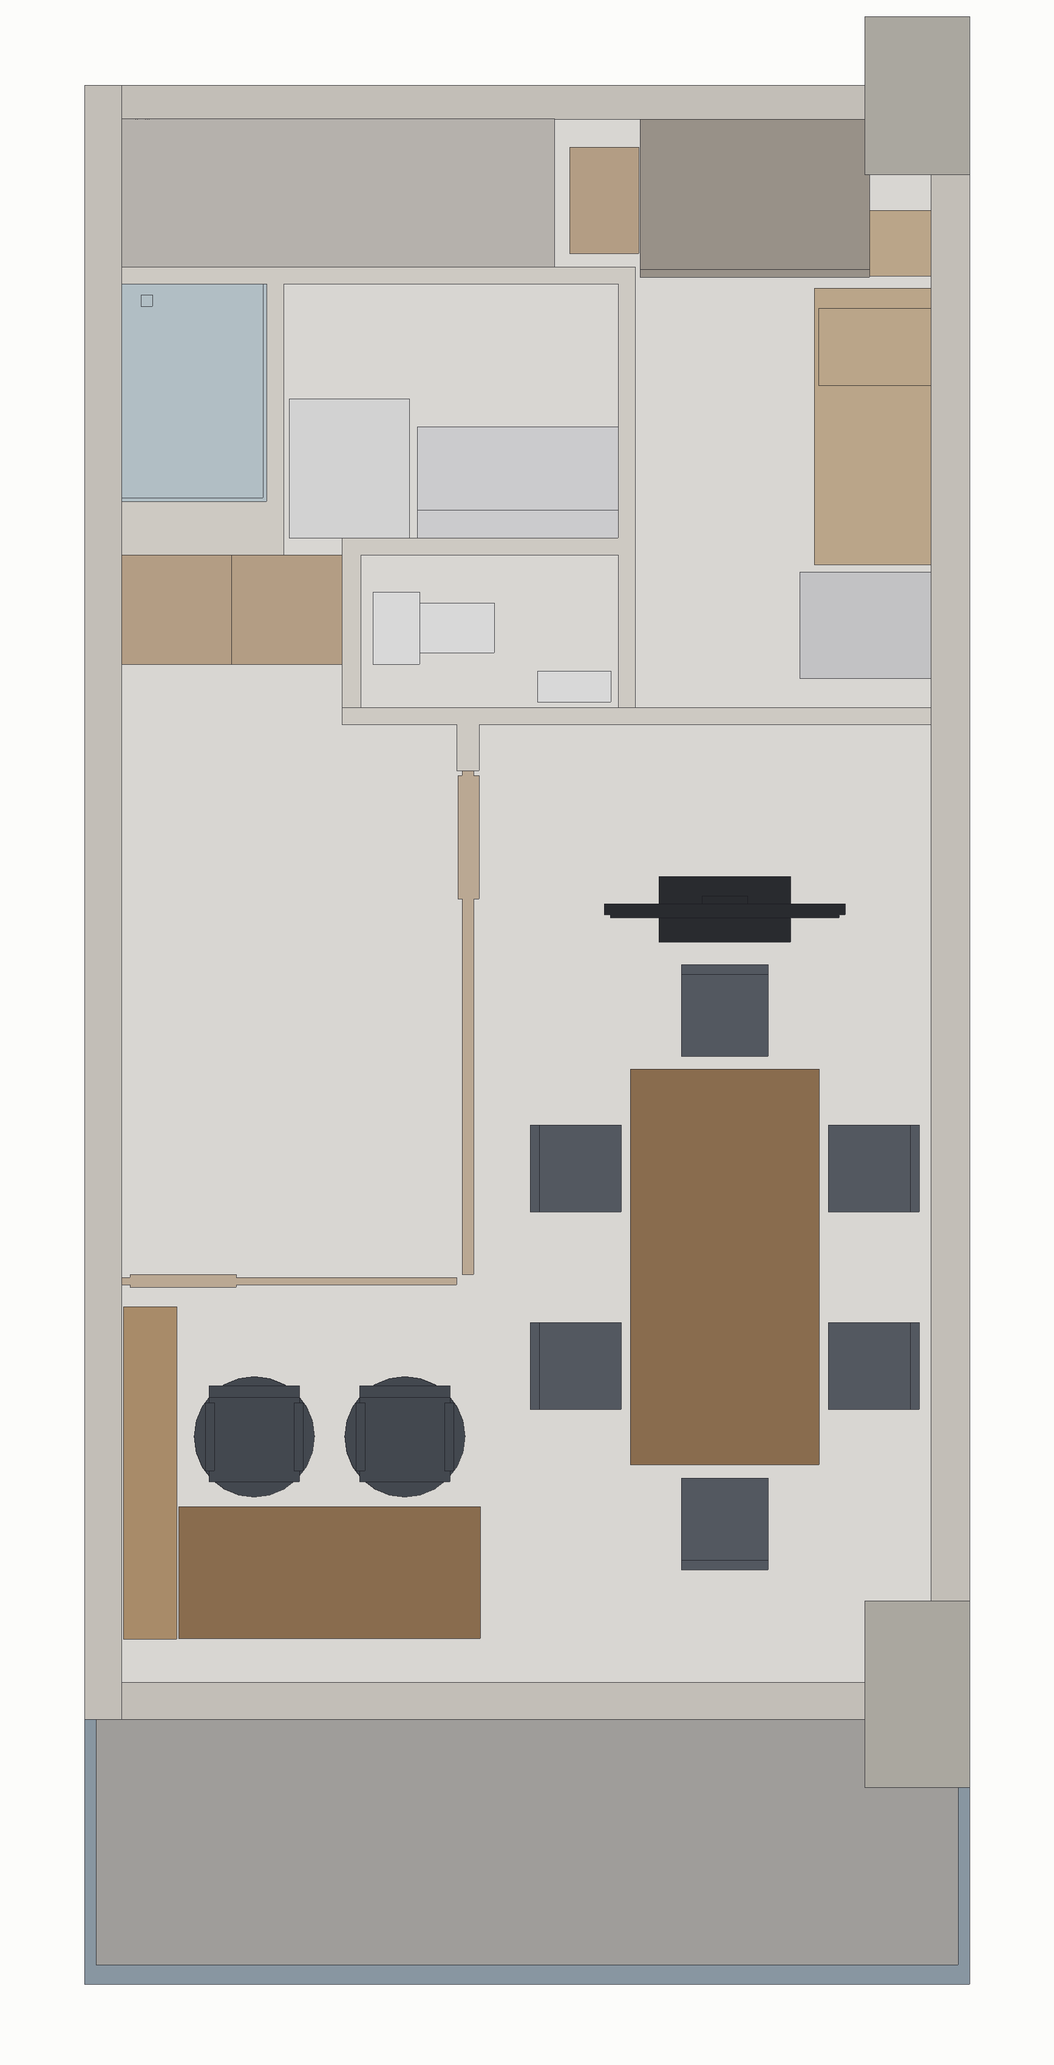
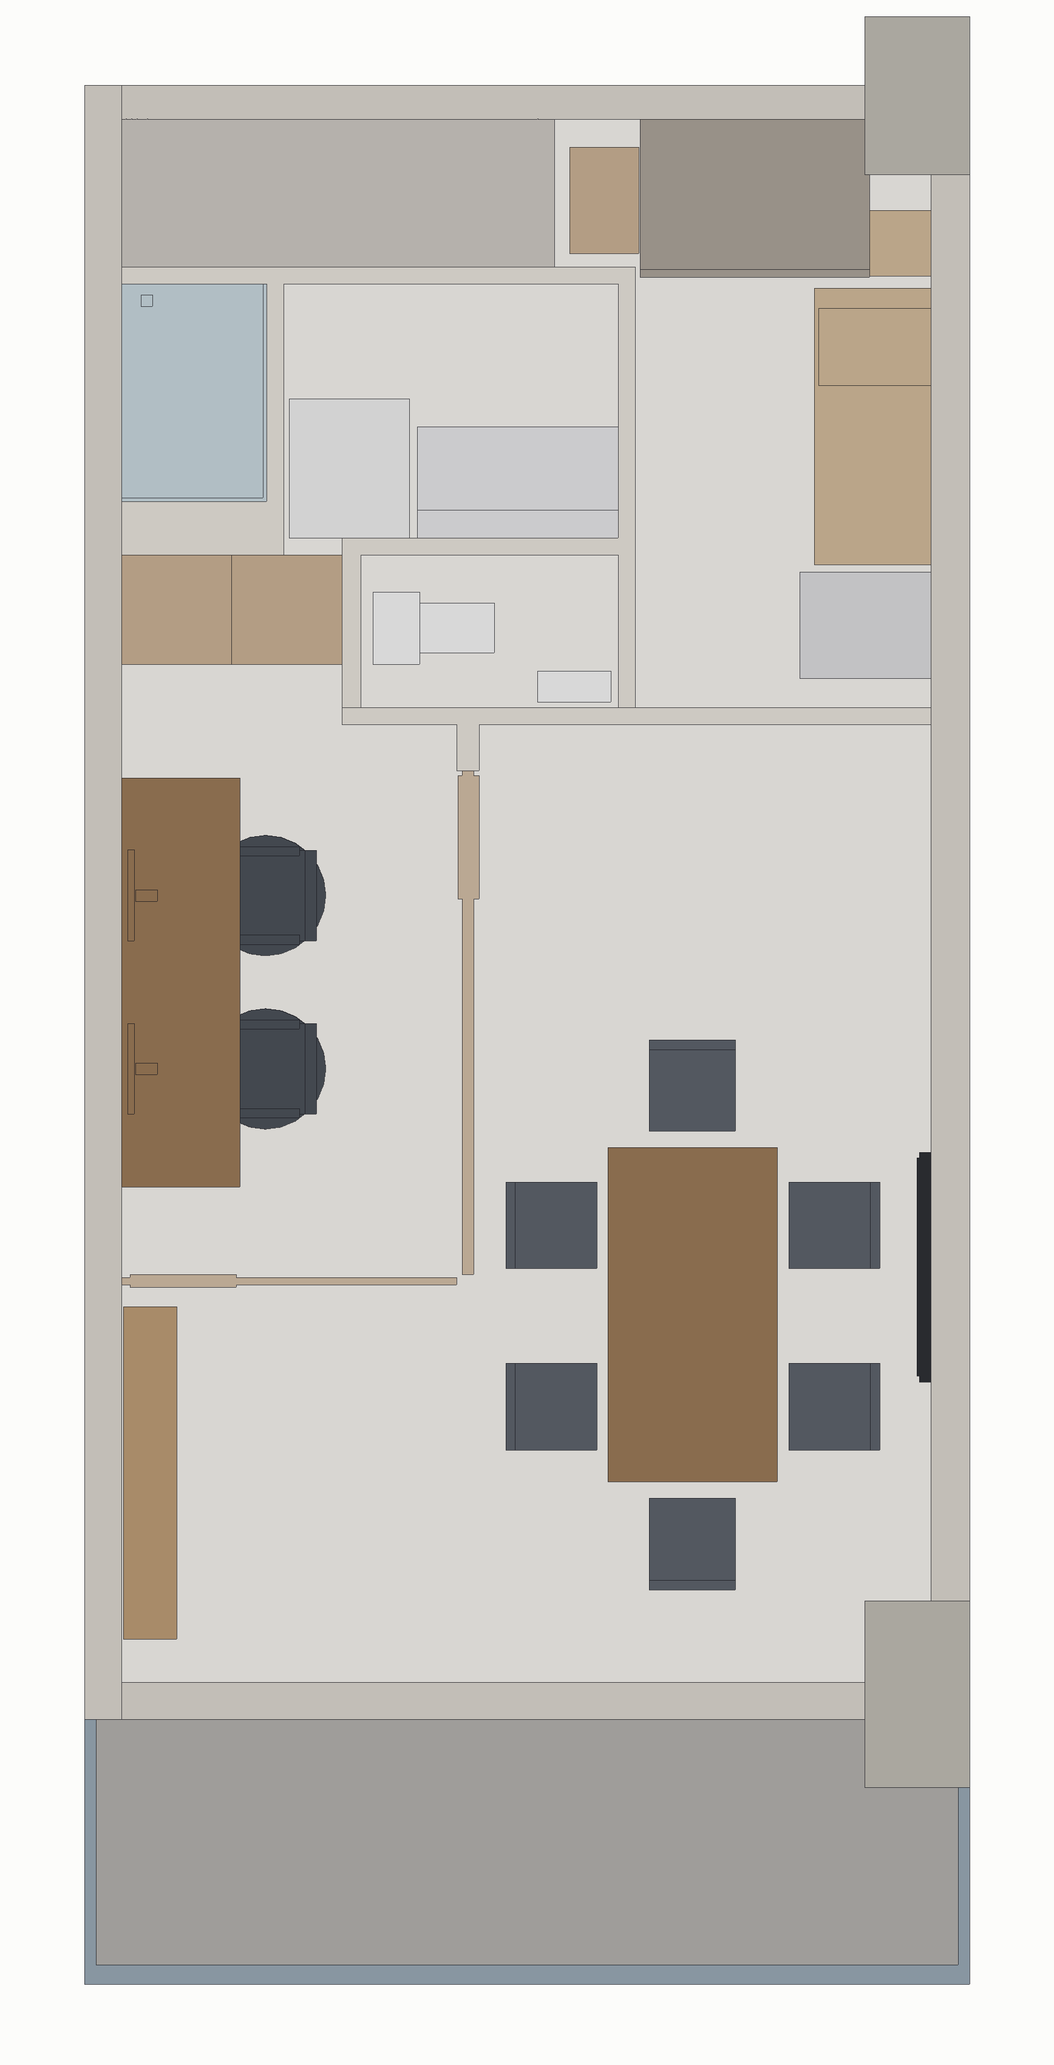
Adopt the specified furniture layout
Replaces the provisional furniture positions with the layout from the
attached FURNITURE CONTACT & CLEARANCE REVIEW drawing. Its envelope
(px x321-1089, y318-1735) scales to 8672 mm against the master's 8675,
so unlike the earlier reference plan its dimensions transfer directly
at 6.1198 mm/px.

The drawing's wall thickness does differ from the master (west inner
face X135 and east inner X4565, against 195 and 4495), so elements
that touch a wall are re-anchored to the master's real faces rather
than copied verbatim: the desk to X=195 as its "flush to wall" note
requires, the display 60 mm off X=4495, storage against X=4495.
Free-standing items keep the drawn values.

Layout: the 2-person desk runs north-south flush to the west wall in
the bedroom zone with two on-desk monitors and both task chairs facing
west; the meeting table sits at X2780-3680 / Y1260-3035 with its six
chairs as drawn; the 55" monitor becomes east-wall mounted facing west
over Y1790-3010, which matches 1218 mm for a 55" panel and frees the
circulation the old floor stand blocked.

Item 4 (storage) is captured but not generated. It is flagged red in
the drawing and conflicts with the standing instruction never to add
storage, so INCLUDE_STORAGE_04 defaults to False pending a decision.

Adds overlay D against the drawing (every item lands on its drawn
position) and a clearance report, which shows the east and west chair
gaps tightening to 211 mm and 141 mm once real wall thickness and
[…]

Changed region(s): [[0.4666, 0.4055, 0.9021, 0.7799], [0.1555, 0.6551, 0.4666, 0.8111], [0.0933, 0.3743, 0.3111, 0.5927]]

diff --git a/soho1415/geometry_master.py b/soho1415/geometry_master.py
@@ -136,26 +136,56 @@ OPEN_SHOWER_DOOR   = (6860.0, 7560.0)   # シャワードア (X_WALL_SHOWER_E)
 OPEN_WINDOW        = (1740.0, 4080.0)   # 掃き出し窓 (南外壁)     px x 778-960
 
 # =====================================================================
-#  2.  FURNITURE  XY  LOCK   ( ※暫定値 -- 上記ヘッダ参照 )
+#  2.  FURNITURE  XY  LOCK   ( 添付「FURNITURE CONTACT & CLEARANCE REVIEW」より )
+# =====================================================================
+#  出典: 指定家具配置図 (1440x2160 px)。外形 px x321-1089 / y318-1735 を
+#        マスター外形に一致させて換算した (6.1198 mm/px)。
+#        この図の外形比は 768:1417 -> 8672 mm でマスター 8675 mm と一致する。
+#
+#  ただし この図の壁厚はマスターと異なる (西壁内面 X135 / 東壁内面 X4565 に対し
+#  マスターは 195 / 4495)。したがって **壁に接する要素は図の数値をそのまま使わず、
+#  マスターの実際の壁面にアンカーし直している**。
+#     - DESK_2P   : 図で「flush to wall」と指示 -> 西壁内面 X=195 に密着
+#     - DISPLAY_55: 東壁掛け -> 東壁内面 X=4495 から室内側へ 60 mm
+#     - STORAGE_04: 東壁付け -> 東壁内面 X=4495 に密着
+#  壁から離れている要素 (ミーティングテーブル・チェア) は図の実測値をそのまま採用。
+#
+#  実測値 (図 -> mm)
+#     DESK        X 214-844 (630)  Y 2827-4994 (2167)   西壁に密着指示
+#     モニター    幅 483 / 厚 37、各ステーションの机西端寄り
+#     執務チェア  X 753-1188        Y 4137-4608 / 3211-3694   西向き
+#     TABLE       X 2778-3678 (900) Y 1261-3035 (1775)
+#     会議チェア  西 (2491,2623)(2491,1659) / 東 (3969,2623)(3969,1659)
+#                 北 (3228,3351) / 南 (3228,943)
+#     DISPLAY     Y 1793-2993 (1199 = 55 型 1218 に一致) 東壁掛け・西向き
+#     STORAGE(4)  X 4333-4578 (245) Y 875-1793 (918)   ※図で赤フラグ
 # =====================================================================
 FURNITURE_XY_LOCK = {
-    # 2 人用ワークデスク : 1600 x 700 / バルコニーを向いて着座
-    "DESK_2P":        dict(x0=500.0,  x1=2100.0, y0=430.0,  y1=1130.0),
-    "TASK_CHAIR_1":   dict(cx=900.0,  cy=1500.0, facing="S"),
-    "TASK_CHAIR_2":   dict(cx=1700.0, cy=1500.0, facing="S"),
+    # (1) 2 人用ワークデスク : 西壁に密着 / Master Bedroom 側に南北配置
+    "DESK_2P":        dict(x0=195.0,  x1=825.0,  y0=2825.0, y1=4995.0),
+    "DESK_MON_N":     dict(cy=4373.0, w=483.0),          # 机上モニター (北席)
+    "DESK_MON_S":     dict(cy=3453.0, w=483.0),          # 机上モニター (南席)
+    "TASK_CHAIR_1":   dict(cx=960.0,  cy=4373.0, facing="W"),
+    "TASK_CHAIR_2":   dict(cx=960.0,  cy=3453.0, facing="W"),
 
-    # 6 人用ミーティングテーブル : 1000 x 2100
-    "MEETING_TABLE":  dict(x0=2900.0, x1=3900.0, y0=1350.0, y1=3450.0),
-    "MTG_CHAIR_W1":   dict(cx=2620.0, cy=1875.0, facing="E"),
-    "MTG_CHAIR_W2":   dict(cx=2620.0, cy=2925.0, facing="E"),
-    "MTG_CHAIR_E1":   dict(cx=4180.0, cy=1875.0, facing="W"),
-    "MTG_CHAIR_E2":   dict(cx=4180.0, cy=2925.0, facing="W"),
-    "MTG_CHAIR_S":    dict(cx=3400.0, cy=1050.0, facing="N"),
-    "MTG_CHAIR_N":    dict(cx=3400.0, cy=3750.0, facing="S"),
+    # (2) 6 人用ミーティングテーブル : 900 x 1775
+    "MEETING_TABLE":  dict(x0=2780.0, x1=3680.0, y0=1260.0, y1=3035.0),
+    "MTG_CHAIR_W1":   dict(cx=2491.0, cy=2623.0, facing="E"),
+    "MTG_CHAIR_W2":   dict(cx=2491.0, cy=1659.0, facing="E"),
+    "MTG_CHAIR_E1":   dict(cx=3969.0, cy=2623.0, facing="W"),
+    "MTG_CHAIR_E2":   dict(cx=3969.0, cy=1659.0, facing="W"),
+    "MTG_CHAIR_N":    dict(cx=3228.0, cy=3351.0, facing="S"),
+    "MTG_CHAIR_S":    dict(cx=3228.0, cy=943.0,  facing="N"),
 
-    # 55 インチモニター : 有効画面 1218 x 685 / 南(テーブル側)を向く
-    "MONITOR_55":     dict(cx=3400.0, cy=4300.0, facing="S"),
+    # (3) 55 インチモニター : 東壁掛け・西向き (有効画面 1218 x 685)
+    "MONITOR_55":     dict(y0=1790.0, y1=3010.0, wall_x=4495.0, facing="W"),
 }
+
+# (4) STORAGE : 添付図に赤 (Storage overlap) でフラグされた収納。
+#     「追加収納を絶対に追加しないでください」という既存指示と抵触するため、
+#     座標だけ保持し、既定では生成しない。True にすれば即座に反映される。
+INCLUDE_STORAGE_04 = False
+STORAGE_04 = dict(x0=4250.0, x1=4495.0, y0=875.0, y1=1793.0, z1=800.0)
 
 # ---------------------------------------------------------------------
 # 可動収納壁 (ベッドルーム間仕切) -- L 字 / 常時開放
@@ -481,12 +511,18 @@ def parts():
     # =================================================================
     F = FURNITURE_XY_LOCK
 
+    # (1) 2 人用ワークデスク (机上モニター 2 台を含む)
     d = F["DESK_2P"]
-    desk = [_b(d["x0"], d["x1"], d["y0"], d["y1"], 700, 740)]
-    for sx in (d["x0"] + 60, d["x1"] - 120):
+    desk = [_b(d["x0"], d["x1"], d["y0"], d["y1"], 700, 740)]          # 天板
+    for sx in (d["x0"] + 40, d["x1"] - 100):
         for sy in (d["y0"] + 40, d["y1"] - 100):
-            desk.append(_b(sx, sx + 60, sy, sy + 60, FL, 700))
-    desk.append(_b(d["x0"] + 40, d["x1"] - 40, d["y0"] + 40, d["y0"] + 70, 420, 690))  # 幕板
+            desk.append(_b(sx, sx + 60, sy, sy + 60, FL, 700))          # 脚
+    for k in ("DESK_MON_N", "DESK_MON_S"):
+        m = F[k]
+        cy, w = m["cy"], m["w"]
+        desk.append(_b(d["x0"] + 145, d["x1"] - 330, cy - 178, cy + 178, 740, 780))   # スタンド台
+        desk.append(_b(d["x0"] + 190, d["x1"] - 555, cy - 30, cy + 30, 780, 1010))    # 支柱
+        desk.append(_b(d["x0"] + 31, d["x0"] + 68, cy - w / 2, cy + w / 2, 1010, 1310))  # 画面
     add("DESK_2P", "2人用ワークデスク", desk)
 
     for k in ("TASK_CHAIR_1", "TASK_CHAIR_2"):
@@ -494,6 +530,7 @@ def parts():
         bx, cy = _task_chair(c["cx"], c["cy"], c["facing"])
         add(k, "執務チェア2脚", bx, cy)
 
+    # (2) 6 人用ミーティングテーブル
     m = F["MEETING_TABLE"]
     tbl = [_b(m["x0"], m["x1"], m["y0"], m["y1"], 700, 740)]
     for sx in (m["x0"] + 80, m["x1"] - 160):
@@ -502,18 +539,24 @@ def parts():
     add("MEETING_TABLE", "6人用ミーティングテーブル", tbl)
 
     for k in ("MTG_CHAIR_W1", "MTG_CHAIR_W2", "MTG_CHAIR_E1",
-              "MTG_CHAIR_E2", "MTG_CHAIR_S", "MTG_CHAIR_N"):
+              "MTG_CHAIR_E2", "MTG_CHAIR_N", "MTG_CHAIR_S"):
         c = F[k]
         bx, cy = _meeting_chair(c["cx"], c["cy"], c["facing"])
         add(k, "会議チェア6脚", bx, cy)
 
+    # (3) 55 インチモニター : 東壁掛け
     mo = F["MONITOR_55"]
-    cx, cy = mo["cx"], mo["cy"]
+    wx, y0, y1 = mo["wall_x"], mo["y0"], mo["y1"]
     add("MONITOR_55", "55インチモニター",
-        [_b(cx - 640, cx + 640, cy - 30, cy + 30, 700, 1445),   # 筐体 (55" = 1218x685)
-         _b(cx - 609, cx + 609, cy - 45, cy - 30, 730, 1415),   # 画面
-         _b(cx - 120, cx + 120, cy - 10, cy + 70, 40, 700),     # 支柱
-         _b(cx - 350, cx + 350, cy - 175, cy + 175, FL, 40)])   # ベース
+        [_b(wx - 60, wx, y0, y1, 750, 1435),                    # 筐体
+         _b(wx - 75, wx - 60, y0 + 31, y1 - 31, 780, 1404),     # 画面 (1218 x 685)
+         _b(wx - 40, wx, (y0 + y1) / 2 - 200, (y0 + y1) / 2 + 200, 1000, 1180)])  # 壁掛け金具
+
+    # (4) STORAGE  -- 既定では生成しない (上記 INCLUDE_STORAGE_04 参照)
+    if INCLUDE_STORAGE_04:
+        st = STORAGE_04
+        add("STORAGE_04", "追加収納(要確認)",
+            [_b(st["x0"], st["x1"], st["y0"], st["y1"], FL, st["z1"])])
 
     return P
 

diff --git a/soho1415/render_validation.py b/soho1415/render_validation.py
@@ -23,6 +23,13 @@ HERE = os.path.dirname(os.path.abspath(__file__))
 OUT = os.path.join(HERE, "out")
 
 # 承認済み平面図 (KEN 物件資料 p.3) と、その中の座標原点
+# 指定家具配置図 (FURNITURE CONTACT & CLEARANCE REVIEW)
+FURNITURE_PLAN = os.environ.get(
+    "FURNITURE_PLAN",
+    "/root/.claude/uploads/9b86f205-44ec-5e28-b7cf-48262834b0fc/82ab60a7-image.png")
+FURN_X0, FURN_X1 = 321, 1089      # 外壁外面 西 / 東 (px)
+FURN_Y0, FURN_Y1 = 1735, 318      # 外壁外面 南 / 北 (px)
+
 APPROVED_PLAN = os.environ.get(
     "APPROVED_PLAN",
     "/root/.claude/uploads/9b86f205-44ec-5e28-b7cf-48262834b0fc/3241b6ab-image.png")
@@ -133,6 +140,52 @@ def overlay(bdata):
     return p
 
 
+def overlay_furniture():
+    """指定家具配置図に、モデルの家具だけを重ねて位置一致を確認する."""
+    if not os.path.exists(FURNITURE_PLAN):
+        print("!! furniture plan not found, skipping")
+        return None
+    src = Image.open(FURNITURE_PLAN).convert("L")
+    w, h = src.size
+    k = (FURN_X1 - FURN_X0) / (GM.X_OUT_E - GM.X_OUT_W)      # px per mm
+
+    furn = ("DESK_2P", "TASK_CHAIR_1", "TASK_CHAIR_2", "MEETING_TABLE",
+            "MTG_CHAIR_W1", "MTG_CHAIR_W2", "MTG_CHAIR_E1", "MTG_CHAIR_E2",
+            "MTG_CHAIR_N", "MTG_CHAIR_S", "MONITOR_55", "STORAGE_04")
+    scene, _ = build()
+    keep = [n for n in scene.geometry if n in furn]
+    tris, rgb, oid = [], [], []
+    for i, n in enumerate(keep):
+        g = scene.geometry[n]
+        f = np.asarray(g.faces, int)
+        tris.append(np.asarray(g.vertices, float)[f])
+        rgb.append(np.asarray(g.visual.face_colors)[:, :3])
+        oid.append(np.full(len(f), i))
+    tris = np.concatenate(tris)
+
+    cx = (GM.X_OUT_W + GM.X_OUT_E) / 2.0
+    cy = (GM.Y_OUT_S + GM.Y_OUT_N) / 2.0
+    img, _ = softrender.render(
+        tris, np.concatenate(rgb).astype(np.uint8), np.concatenate(oid),
+        eye_dir=(0, 0, 1), up_hint=(0, 1, 0),
+        width=w, height=h, px_per_mm=k, outline=False,
+        center=(cx, cy, 0))
+    # モデル画像の中心は外形中心。図面上の外形中心 px に平行移動する。
+    dx = int(round((FURN_X0 + FURN_X1) / 2.0 - w / 2.0))
+    dy = int(round((FURN_Y0 + FURN_Y1) / 2.0 - h / 2.0))
+    shifted = Image.fromarray(img).transform(
+        (w, h), Image.AFFINE, (1, 0, -dx, 0, 1, -dy), fillcolor=(252, 252, 250))
+
+    m = np.asarray(shifted.convert("L")).astype(np.float32)
+    solid = m < 248
+    base = np.asarray(src).astype(np.float32)
+    out = np.stack([base, base, base], -1)
+    out[solid] = out[solid] * 0.45 + np.array([0, 90, 230], np.float32) * 0.55
+    p = os.path.join(OUT, "view_D_overlay_vs_furniture_plan.png")
+    Image.fromarray(np.clip(out, 0, 255).astype(np.uint8)).save(p)
+    return p
+
+
 def check_xy_lock():
     """XY LOCK の自己検証: 全オブジェクトが外形 + バルコニー内に収まるか."""
     scene, meta = build()
@@ -172,6 +225,9 @@ def main():
     print("overlay C ...")
     pc = overlay(bdata)
     print("  ->", pc)
+    print("overlay D (指定家具配置図) ...")
+    pd = overlay_furniture()
+    print("  ->", pd)
 
     print("\n--- XY LOCK check ---")
     bad = check_xy_lock()
@@ -201,6 +257,24 @@ def main():
              GM.MOVW_EW_TRAVEL[1] - GM.MOVW_EW_TRAVEL[0],
              GM.MOVW_EW_POCKET[0], GM.MOVW_EW_POCKET[1], GM.MOVW_EW_PANELS))
     print("object bbox (panels + rail):", mw["bbox_min"], mw["bbox_max"])
+
+    print("\n--- clearance check (指定家具配置図の主旨) ---")
+    bb = {m["object"]: (m["bbox_min"], m["bbox_max"]) for m in build()[1]}
+
+    def gap(a_obj, a_edge, b_val, axis, label):
+        lo, hi = bb[a_obj]
+        i = 0 if axis == "X" else 1
+        v = hi[i] if a_edge == "max" else lo[i]
+        print("  %-38s %6.0f mm" % (label, abs(b_val - v)))
+
+    gap("DESK_2P", "min", GM.X_IN_W, "X", "デスク西端 -> 西壁内面 (flush 指示)")
+    gap("TASK_CHAIR_1", "max", GM.MOVW_NS_X[0] + 30, "X",
+        "執務チェア東端 -> 可動壁レール")
+    gap("MTG_CHAIR_S", "min", GM.Y_IN_S, "Y", "会議チェア(南)南端 -> 南壁内面")
+    gap("MTG_CHAIR_E1", "max", GM.FURNITURE_XY_LOCK["MONITOR_55"]["wall_x"] - 60,
+        "X", "会議チェア(東)東端 -> ディスプレイ面")
+    gap("MTG_CHAIR_W1", "min", GM.MOVW_NS_X[1], "X", "会議チェア(西)西端 -> 可動壁ゾーン")
+    gap("MEETING_TABLE", "max", GM.X_IN_E, "X", "テーブル東端 -> 東壁内面")
 
     a = GM.areas()
     print("\n--- area check ---")

diff --git a/soho1415/README.md b/soho1415/README.md
@@ -27,7 +27,7 @@ Pythonのz-bufferラスタライザでそのまま投影したものである。
 | `render_validation.py` | 検証レンダ A / B と承認済み平面図との重ね合わせ C |
 | `crosscheck_reference.py` | 参考案（添付案）との相互検証 |
 | `blender_build.py` | 同一マスター → Blenderシーン（承認後のフォトリアル用） |
-| `out/` | 出力（GLB / objects.json / 検証画像3枚） |
+| `out/` | 出力（GLB / objects.json / 検証画像4枚） |
 
 ```bash
 pip install numpy trimesh pillow scipy
@@ -275,6 +275,7 @@ balcony  6.51 m2 (spec  6.40)  diff +1.71%
 | `out/view_A_axonometric.png` | 平面図と同じ向き（北が上）を保った俯瞰アクソメ / 正投影・天井非表示 |
 | `out/view_B_top_ortho.png` | 完全真上からの正投影 TOP VIEW |
 | `out/view_C_overlay_vs_approved_plan.png` | **B を承認済み平面図に同一縮尺・同一原点で重ねたもの** |
+| `out/view_D_overlay_vs_furniture_plan.png` | **家具を指定家具配置図に重ねたもの** |
 
 Cでは、モデルの立ち上がり部材だけを赤で承認済み平面図に重ねている。
 外周壁・内壁・PS・SC・Shower・W/D・洗面台・Closet・Toilet・
@@ -283,30 +284,77 @@ Kitchen（コンロ／シンク）・Refrigerator・Book Shelf・可動収納壁
 
 ---
 
-## ⚠ 要確認 — 家具のXY
+## 家具配置 — 指定家具配置図より確定
 
-本作業に添付されたのはKEN物件資料PDFの3ページ
-（内観写真2枚 + 平面図1枚）のみで、家具位置を確定した
-**「承認済み ORTHOGRAPHIC COORDINATE MODEL」の画像は含まれていなかった**。
+出典：添付「SOHO 1415 / FURNITURE CONTACT & CLEARANCE REVIEW」(1440×2160px)。
+外形 px x321–1089 / y318–1735 をマスター外形に一致させて換算（6.1198 mm/px）。
+**この図の外形比 768:1417 → 8672mm はマスター8675mmと一致**するため、
+相対位置だけでなく寸法もそのまま使える。
 
-そのため：
+### 壁面への再アンカー
 
-- **建築躯体のXY** … 平面図から実測。確定値。
-- **家具のXY** … 承認済みモデルが参照できないため、
-  `geometry_master.py` の `FURNITURE_XY_LOCK` に暫定値として定義。
+ただしこの図は**壁厚がマスターと異なる**（西壁内面 X135 / 東壁内面 X4565 に対し
+マスターは 195 / 4495）。そのため壁に接する要素は図の数値をそのまま使わず、
+マスターの実際の壁面にアンカーし直した。
 
-暫定値（mm）：
-
-| 要素 | XY |
+| 要素 | 処理 |
 |---|---|
-| 2人用ワークデスク 1600×700 | X 500–2100 / Y 430–1130（Book Shelf脇・バルコニーを向いて着座） |
-| 執務チェア2脚 | (900, 1500) (1700, 1500) 南向き |
-| 6人用ミーティングテーブル 1000×2100 | X 2900–3900 / Y 1350–3450 |
-| 会議チェア6脚 | 西 (2620,1875)(2620,2925) / 東 (4180,1875)(4180,2925) / 南 (3400,1050) / 北 (3400,3750) |
-| 55インチモニター | (3400, 4300) 南向き・テーブル北端に正対 |
+| DESK_2P | 図で「flush to wall」指示 → 西壁内面 X=195 に密着 |
+| MONITOR_55 | 東壁掛け → 東壁内面 X=4495 から室内側へ60mm |
+| STORAGE(4) | 東壁付け → 東壁内面 X=4495 に密着 |
+| テーブル・チェア | 壁から離れているため図の実測値をそのまま採用 |
 
-承認済みモデルの数値が判明した場合、**このブロックの数値だけ**を
-差し替えれば他は一切変更不要（躯体・検証・レンダは自動追従する）。
+### 確定値
+
+| 要素 | XY (mm) |
+|---|---|
+| ① 2人用ワークデスク | X 195–825 / Y 2825–4995（西壁密着・Master Bedroom側に南北配置） |
+| 机上モニター2台 | 幅483 / 机西端寄り・東向き、Y中心 4373・3453 |
+| 執務チェア2脚 | (960, 4373) (960, 3453) **西向き** |
+| ② 6人用ミーティングテーブル | X 2780–3680 / Y 1260–3035（900×1775） |
+| 会議チェア6脚 | 西 (2491,2623)(2491,1659) / 東 (3969,2623)(3969,1659) / 北 (3228,3351) / 南 (3228,943) |
+| ③ 55インチモニター | **東壁掛け・西向き** Y 1790–3010（1220 = 55型1218に一致） |
+
+L字間仕切が常時開放のため、ワークデスクはMaster Bedroom側、
+ミーティングテーブルはLiving Dining側に置かれ、両者はひと続きの空間となる。
+
+### ④ STORAGE — 未生成（要確認）
+
+添付図で赤（Storage overlap）にフラグされた収納。
+**「追加収納を絶対に追加しないでください」という既存指示と抵触する**ため、
+座標のみ保持し既定では生成していない。
+
+```python
+INCLUDE_STORAGE_04 = False
+STORAGE_04 = dict(x0=4250.0, x1=4495.0, y0=875.0, y1=1793.0, z1=800.0)
+```
+
+`True` にすれば即座に反映される。既存指示より添付図を優先する場合はご指示ください。
+
+### 重ね合わせ検証（D）
+
+`out/view_D_overlay_vs_furniture_plan.png` — モデルの家具のみを青で
+指定家具配置図に重ねたもの。デスク・机上モニター・執務チェア2脚・
+ミーティングテーブル・会議チェア6脚がすべて作図位置に一致する。
+ディスプレイは壁面再アンカーの分だけ図の黒帯より室内側に寄る。
+
+### マスター上の実クリアランス
+
+`render_validation.py` が毎回出力する。図の注記値と差があるのは、
+壁厚の違いとチェア外形（肘掛け込み）を反映しているため。
+
+| 箇所 | マスター | 図の注記 |
+|---|---|---|
+| デスク西端 → 西壁内面 | **0**（flush） | flush指示 |
+| 執務チェア東端 → 可動壁レール | 725 | ~834 |
+| 会議チェア(南) → 南壁内面 | 493 | ~613 |
+| 会議チェア(東) → ディスプレイ面 | **211** | ~366 |
+| 会議チェア(西) → 可動壁ゾーン | **141** | （注記なし） |
+| テーブル東端 → 東壁内面 | 815 | — |
+
+東西のチェアまわりが211mm / 141mmと窮屈になる。
+XYは指定どおり固定しているので変更していないが、
+着座位置としては調整の余地がある点は申し添える。
 
 ---
 
